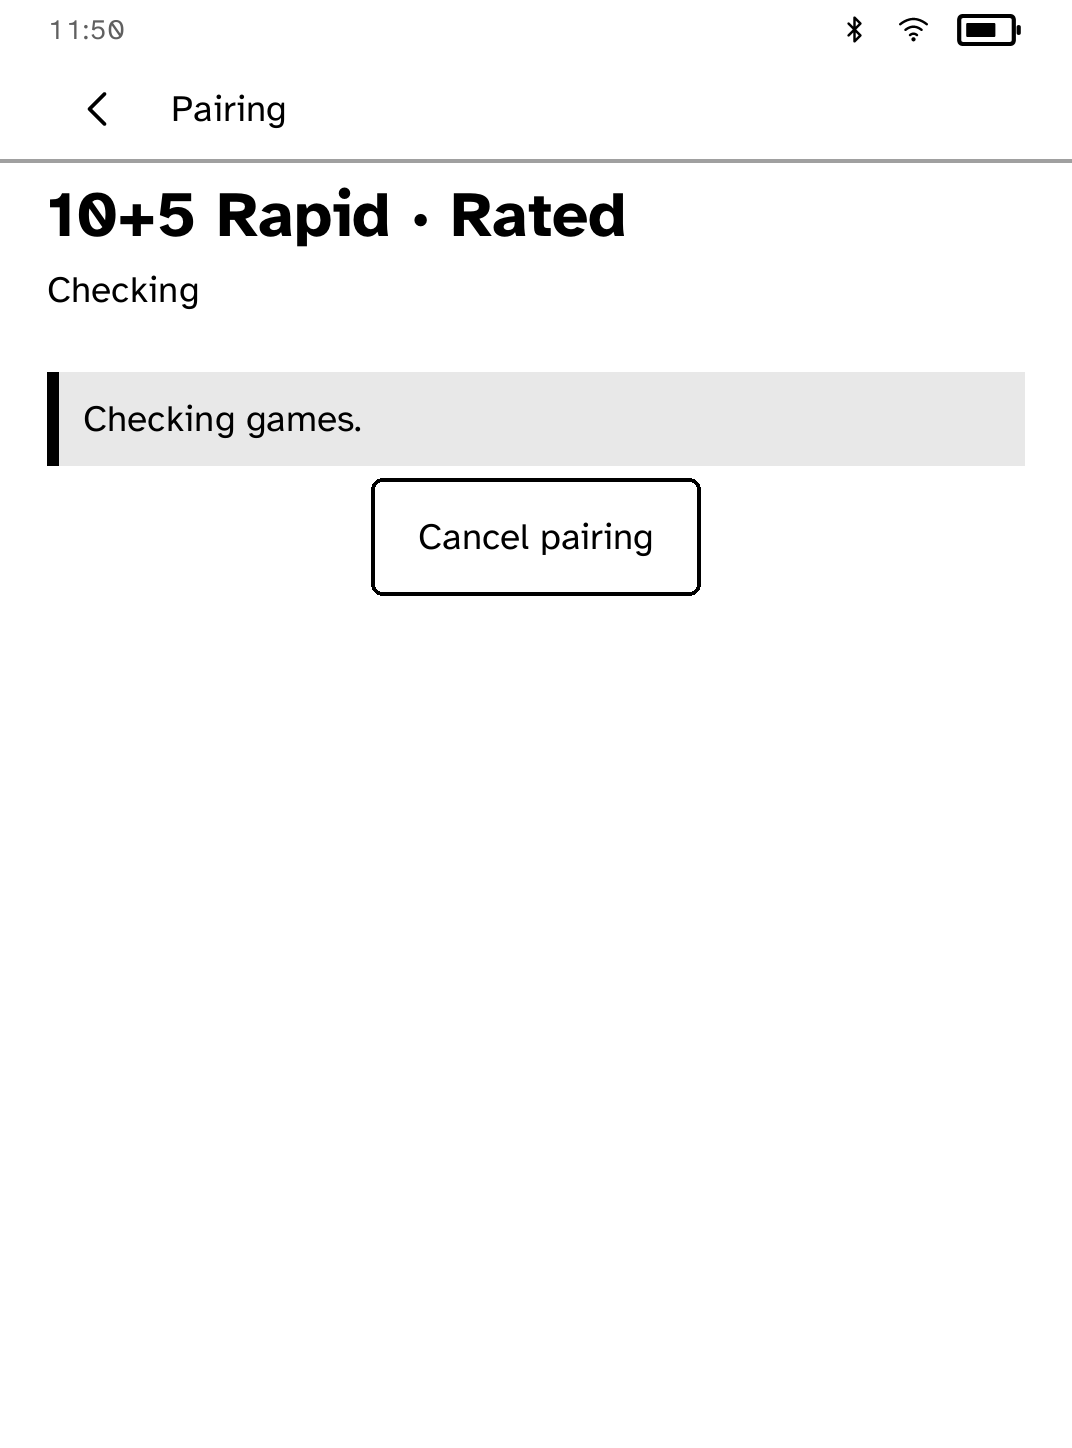
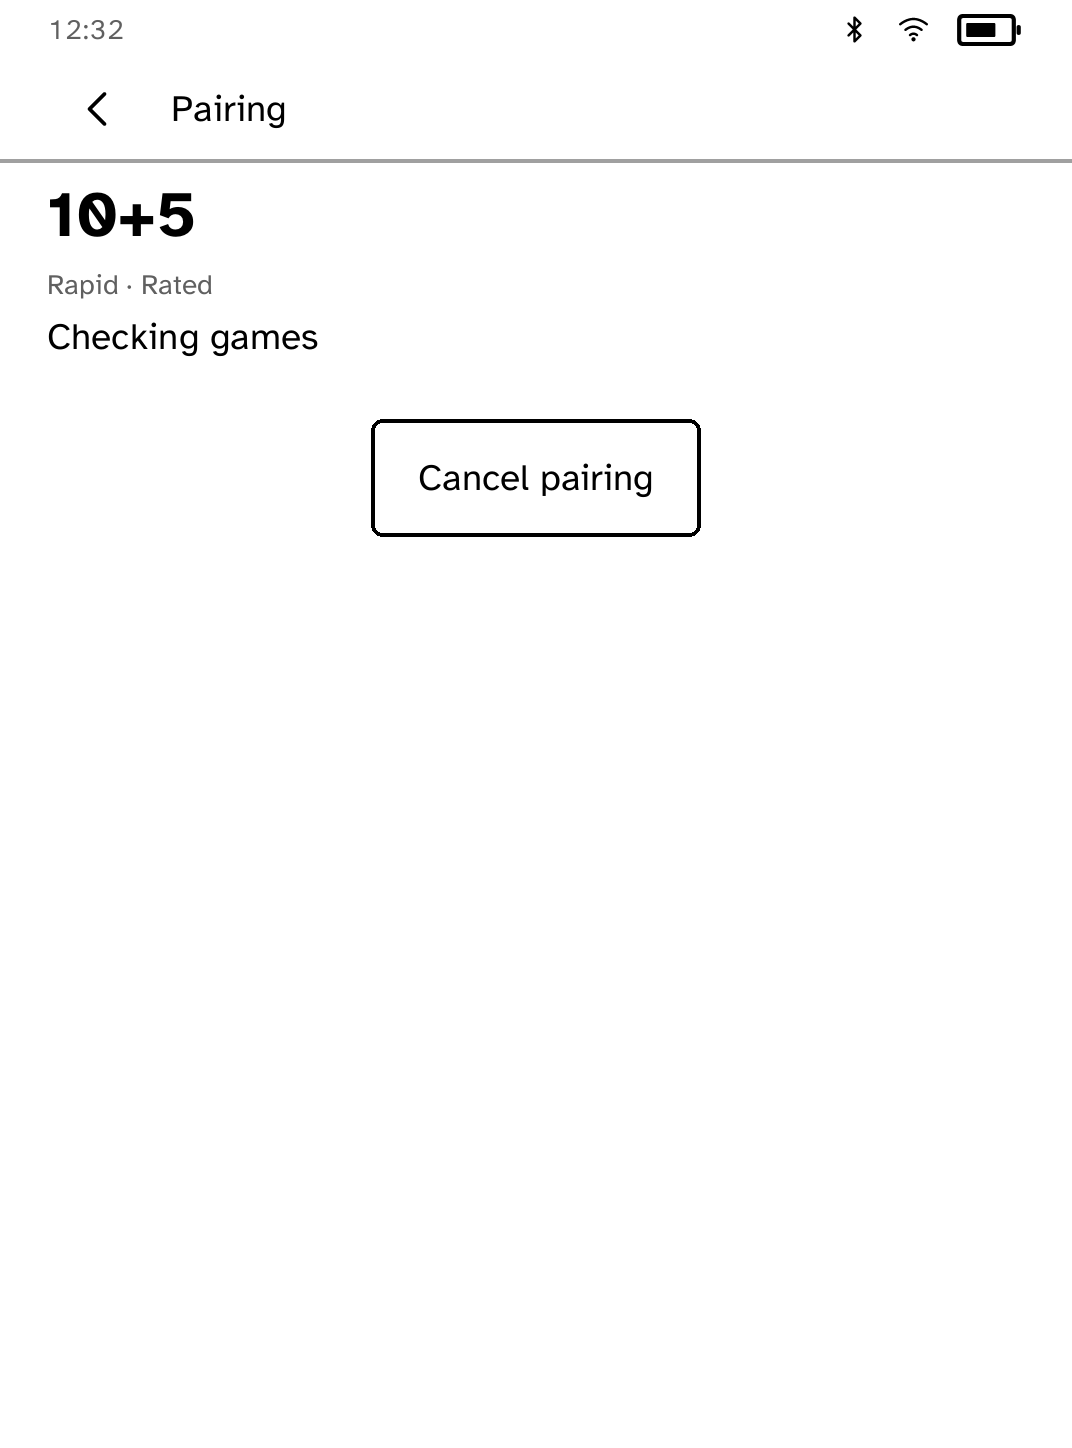
Simplify Lichess pairing and recovery guidance

diff --git a/docs/apps/lichess/index.html b/docs/apps/lichess/index.html
@@ -21,7 +21,7 @@
 <meta name="twitter:description" content="Play Lichess games, challenge players, solve puzzles, or play offline. Install it on a supported Kobo e-reader with Cobalt.">
 <meta name="twitter:image" content="https://bandarlabs.github.io/Cobalt/media/site/apps/lichess.png">
 <meta name="twitter:image:alt" content="Responsive Lichess time-control tiles and puzzles on a Kobo">
-<meta http-equiv="Content-Security-Policy" content="default-src 'none'; script-src 'self' 'sha256-ON8yP/FA0j66b2iaznXJu8/9oHczzQ0MeIns2BTBwBc='; style-src 'self'; img-src 'self'; connect-src https://cobalt-install-relay.anandabhishek.workers.dev; base-uri 'none'; form-action 'self'">
+<meta http-equiv="Content-Security-Policy" content="default-src 'none'; script-src 'self' 'sha256-2u8uGp3Z8owGjPMav5CyBjQ5z3jTmLy52oQUMOJ6F24='; style-src 'self'; img-src 'self'; connect-src https://cobalt-install-relay.anandabhishek.workers.dev; base-uri 'none'; form-action 'self'">
 <script type="application/ld+json">{
   "@context": "https://schema.org",
   "@graph": [
@@ -40,7 +40,7 @@
       "applicationSuite": "Cobalt",
       "applicationCategory": "SoftwareApplication",
       "operatingSystem": "Cobalt on supported Kobo e-readers",
-      "softwareVersion": "1.0.10",
+      "softwareVersion": "1.0.11",
       "isAccessibleForFree": true,
       "offers": {
         "@type": "Offer",
@@ -97,7 +97,7 @@
       <p class="eyebrow">Kobo app</p>
       <h1>Lichess</h1>
       <p class="summary">Play Lichess games, challenge players, solve puzzles, or play offline.</p>
-      <div class="meta"><span>Version 1.0.10</span><span>network, hold-wifi, keep-awake</span></div>
+      <div class="meta"><span>Version 1.0.11</span><span>network, hold-wifi, keep-awake</span></div>
     </div>
     <figure class="app-shot">
       <img src="../../media/site/apps/lichess.png" width="1072" height="1448" alt="Responsive Lichess time-control tiles and puzzles on a Kobo">

diff --git a/apps/lichess/src/main.rs b/apps/lichess/src/main.rs
@@ -878,10 +878,22 @@ impl Lichess {
             self.has_pending(|pending| matches!(pending, Pending::SeekReconcile { .. }));
         let mut screen = ScreenBuilder::new("lichess-pairing")
             .top_bar("Pairing")
-            .heading(format!("{clock} {} · Rated", preset.speed_label()))
-            .activity(if reconciling { "Checking" } else { "Waiting" }, None)
+            .heading(clock)
+            .secondary(format!("{} · Rated", preset.speed_label()))
+            .activity(
+                if reconciling {
+                    "Checking games"
+                } else {
+                    "Finding an opponent"
+                },
+                None,
+            )
             .secondary(self.clock.waited_words());
-        if let Some(notice) = &self.notice {
+        if let Some(notice) = self
+            .notice
+            .as_ref()
+            .filter(|notice| !reconciling || notice.as_str() != "Checking games.")
+        {
             screen = screen.banner(BannerLevel::Attention, notice);
         }
         screen
@@ -2839,14 +2851,12 @@ impl Lichess {
                 self.notice = None;
                 self.reconcile_pending_move();
                 if pending.is_some() && self.pending_move.is_none() {
-                    self.notice = Some("The board reconciled the pending move.".to_owned());
+                    self.notice = Some("Board updated.".to_owned());
                 } else if pending.is_some() {
                     self.pending_move = None;
                     self.selected = None;
-                    self.notice = Some(
-                        "The move was absent from the authoritative reconnect state and was not replayed."
-                            .to_owned(),
-                    );
+                    self.notice =
+                        Some("The move was not confirmed. Choose your move again.".to_owned());
                 }
                 self.reset_clock(context, self.game.as_ref().is_some_and(Game::active));
                 self.finish_if_needed(context);
@@ -2872,10 +2882,8 @@ impl Lichess {
                         self.board_ready = true;
                     }
                     Some(ApplyState::Reopen) => {
-                        self.notice = Some(
-                            "Board history moved backward or diverged; reopening authoritative state."
-                                .to_owned(),
-                        );
+                        self.notice =
+                            Some("The board changed. Refreshing the position.".to_owned());
                         self.close_board(context, id);
                         self.schedule_board_reconnect(context, id);
                     }
@@ -2927,10 +2935,7 @@ impl Lichess {
         } else {
             self.pending_move = None;
             self.selected = None;
-            self.notice = Some(
-                "The server advanced without that move; the displayed board is authoritative."
-                    .to_owned(),
-            );
+            self.notice = Some("The position changed before your move was confirmed.".to_owned());
         }
     }
 
@@ -3124,7 +3129,7 @@ impl Lichess {
                         context,
                         generation,
                         format!(
-                            "Current games are rate-limited for {seconds}s. Pairing remains cancelled server-side; reconciliation will retry."
+                            "Lichess asked us to wait {seconds}s. We will check for your game again."
                         ),
                         seconds,
                     );
@@ -3276,7 +3281,7 @@ impl Lichess {
                         self.finish_seek_reconciliation(context, generation, games);
                     } else {
                         self.notice = Some(
-                            "The current-game response could not be read. Pairing was not replayed; cancel or wait for another check."
+                            "Could not check your game. Wait for another check or cancel pairing."
                                 .to_owned(),
                         );
                         let _ = self.spawn(
@@ -3324,10 +3329,7 @@ impl Lichess {
                         self.next_board(context, &id);
                     }
                 } else {
-                    self.notice = Some(
-                        "The board stream record was malformed; reopening authoritative state."
-                            .to_owned(),
-                    );
+                    self.notice = Some("Could not read the board update. Reconnecting.".to_owned());
                     self.close_board(context, &id);
                     self.schedule_board_reconnect(context, &id);
                 }
@@ -3464,7 +3466,7 @@ impl Lichess {
                         generation,
                         preset,
                         format!(
-                            "{} Waiting briefly for gameStart; the seek was not replayed.",
+                            "{} Checking whether your game started.",
                             Failure::of(error).naming(api::SECRET)
                         ),
                     );
@@ -3479,7 +3481,7 @@ impl Lichess {
                     context,
                     generation,
                     format!(
-                        "{} Pairing was not replayed; current-game reconciliation will retry.",
+                        "{} We will check for your game again.",
                         Failure::of(error).naming(api::SECRET)
                     ),
                     10,
@@ -3502,7 +3504,7 @@ impl Lichess {
                     self.accepted_challenge = None;
                 }
                 self.notice = Some(format!(
-                    "{} The action was not replayed; the board is being reconciled.",
+                    "{} Checking whether the action completed.",
                     Failure::of(error).naming(api::SECRET)
                 ));
                 if !matches!(action, GameAction::Move(_)) || !current {
@@ -7804,7 +7806,7 @@ mod tests {
             .notice
             .as_deref()
             .unwrap_or_default()
-            .contains("reopening authoritative"));
+            .contains("Refreshing the position"));
 
         let reconnected = api::parse_board(
             br#"{"type":"gameFull","id":"abcdEF12","rated":true,"speed":"rapid","variant":{"key":"standard"},"initialFen":"startpos","white":{"id":"owner123","name":"Owner","rating":1500},"black":{"id":"other123","name":"Other","rating":1510},"state":{"type":"gameState","moves":"e2e4 e7e5","wtime":599000,"btime":598000,"winc":0,"binc":0,"status":"started","bdraw":true}}"#,

diff --git a/docs/quality/validation.md b/docs/quality/validation.md
@@ -2338,3 +2338,11 @@ layouts: `evidence/lichess-connection`. Lichess 1.0.10 uses short reconnect copy
 and full-width clock placeholders to preserve touch targets and large-text
 layout. Generated app pages were updated. No live service was used.
 Tracker: 232 complete, 263 open, one deferred.
+
+Lichess 1.0.11 simplifies pairing and recovery guidance, removes the duplicate
+checking banner and separates clock settings from the game type to avoid an
+awkward enlarged heading wrap. Rate-limit guidance no longer incorrectly says
+pairing was cancelled. Normal and 170% checking-screen captures pass; all 111
+app tests and strict Clippy pass. Updated screenshot evidence is in
+`evidence/lichess-recovery`. LICHESS-01 remains open for the rest of its guidance
+review; counts remain 232 complete, 263 open, one deferred.

diff --git a/apps/lichess/README.md b/apps/lichess/README.md
@@ -175,3 +175,11 @@ blocked moves and recovery. It also checks active-side clocks after each move.
 ![Reconnecting board](screenshots/reconnecting.png)
 
 ![Reconnecting board at 170% text size](screenshots/reconnecting-large.png)
+
+Pairing shows the clock setting separately from the game type, including at
+enlarged text sizes. “Finding an opponent” changes to “Checking games” while
+recovering a possible missed match. Recovery messages explain what is happening
+without exposing protocol event names; rate-limit guidance does not claim the
+seek was cancelled when only the next check is delayed.
+
+![Checking for a matched game at 170% text size](screenshots/reconciling-large.png)
